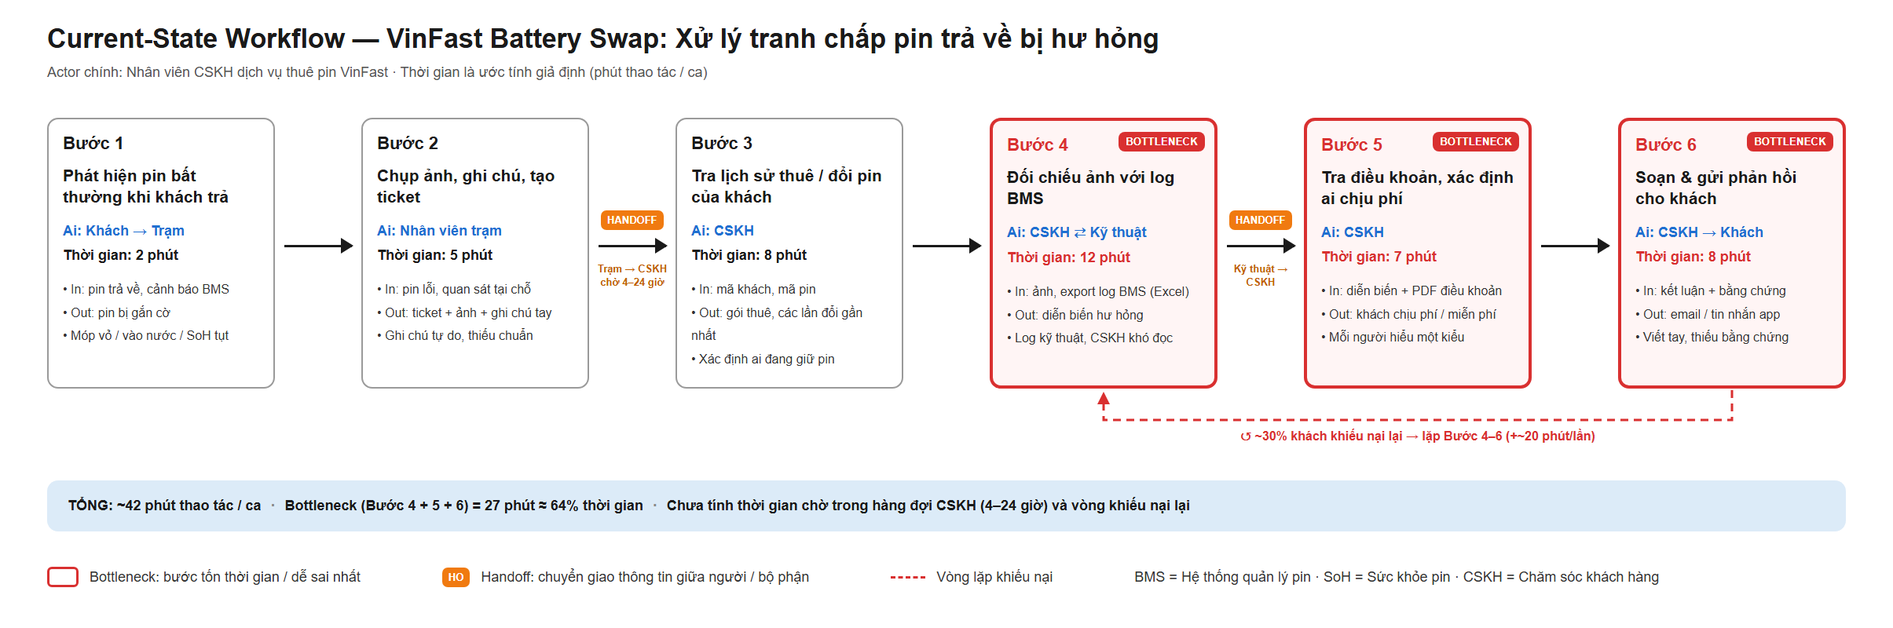
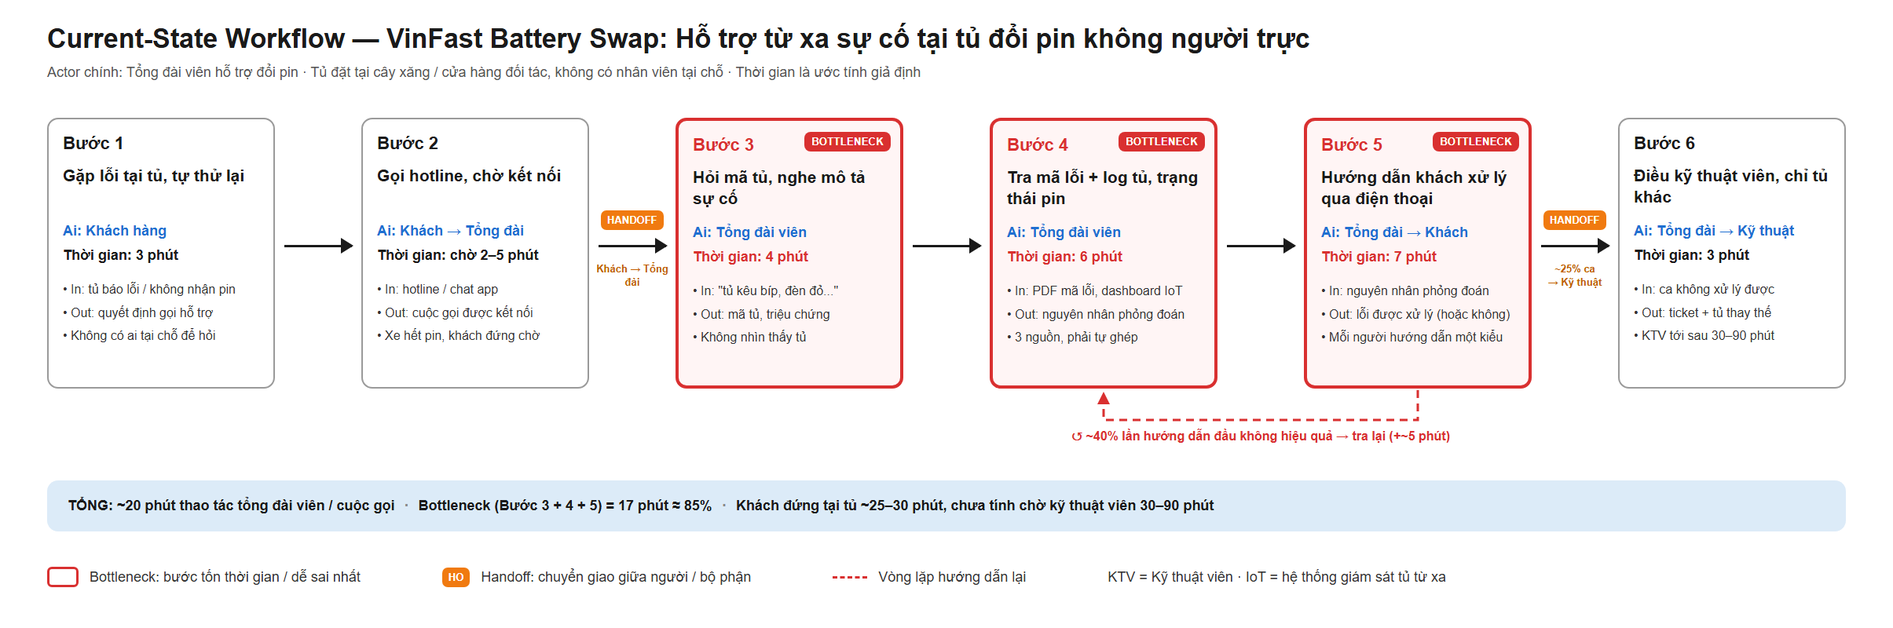
Feat: Complete individual assignment by ngogiabao

diff --git a/02-deep-dive-report.md b/02-deep-dive-report.md
@@ -1,10 +1,10 @@
-# 02 — Deep-Dive Report: VinFast Battery Swap — Xử lý tranh chấp pin trả về bị hư hỏng
+# 02 — Deep-Dive Report: VinFast Battery Swap — Hỗ trợ từ xa sự cố tại tủ đổi pin không người trực
 
 > **Học viên:** Ngô Gia Bảo — Branch: `ngogiabao`
 > **Bài toán chọn từ:** Quick Card #2 trong [01-problem-scan.md](01-problem-scan.md)
-> **Mảng kinh doanh:** 🚗 **VinFast — Dịch vụ thuê & đổi pin xe máy điện (Battery Swap)**
+> **Mảng kinh doanh:** 🚗 **VinFast / V-Green — Dịch vụ thuê & đổi pin xe máy điện (Battery Swap)**
 >
-> ⚠ *Mọi con số (thời gian, số ca, tỷ lệ) là **ước tính giả định** để scoping, chưa có dữ liệu vận hành thật. Phase 5 giải thích vì sao điều này ảnh hưởng tới quyết định.*
+> ⚠ *Mọi con số (thời gian, số cuộc gọi, tỷ lệ) là **ước tính giả định** để scoping, chưa có dữ liệu vận hành thật. Phase 5 giải thích vì sao điều này ảnh hưởng tới quyết định.*
 
 ---
 
@@ -12,25 +12,24 @@
 
 ## 3.1. Current-State Workflow Mapping
 
-**Bối cảnh:** Khi khách trả pin tại trạm, nếu pin có dấu hiệu bất thường (vỏ móp/nứt, dấu hiệu vào nước, SoH tụt mạnh so với lần nhận, mã lỗi BMS), trạm phải mở ticket. CSKH xử lý ticket để xác định **ai chịu chi phí** (khách hàng gây hư hỏng / hao mòn tự nhiên / lỗi nhà sản xuất) và phản hồi khách.
+**Bối cảnh:** Tủ đổi pin được đặt tại cây xăng, cửa hàng đối tác, trạm điện lực... và **không có nhân viên của dịch vụ đổi pin trực tại chỗ**. Khi khách gặp sự cố — tủ không nhận pin trả về, báo mã lỗi, kẹt khay, không còn pin đầy — kênh hỗ trợ duy nhất là **gọi tổng đài / chat trong app**. Tổng đài viên phải xử lý từ xa mà không nhìn thấy tủ.
 
-| Bước | Ai thực hiện | Mô tả | Công cụ | ⏱ Thời gian xử lý | Ký hiệu |
+| Bước | Ai thực hiện | Mô tả | Công cụ | ⏱ Thời gian | Ký hiệu |
 |---|---|---|---|---:|---|
-| 1 | Hệ thống trạm / Nhân viên trạm | Phát hiện pin bất thường khi khách trả (BMS báo lỗi hoặc nhân viên thấy hư hỏng ngoại quan) | Tủ đổi pin, BMS | 2 phút | |
-| 2 | Nhân viên trạm | Chụp ảnh pin, ghi chú tình trạng, tạo ticket | App nội bộ trạm | 5 phút | 🔄 **Handoff:** Trạm ──> CSKH |
-| — | *(Hàng đợi)* | Ticket nằm chờ trong queue CSKH | Hệ thống ticket | *Chờ 4–24 giờ* | 🔴 *(thời gian chờ)* |
-| 3 | CSKH | Tra lịch sử thuê/đổi pin của khách (gói thuê, các lần đổi gần nhất, ai giữ pin) | Hệ thống quản lý thuê pin | 8 phút | |
-| 4 | CSKH (+ Kỹ thuật nếu cần) | Đối chiếu ảnh tại trạm với log BMS (va đập, nhiệt độ, độ ẩm, dòng sạc bất thường) để dựng lại diễn biến | Ảnh + export log BMS (Excel) | 12 phút | 🔴 **Bottleneck** · 🔄 **Handoff:** CSKH ──> Kỹ thuật (khi log khó đọc) |
-| 5 | CSKH | Tra điều khoản gói thuê, xác định trường hợp: khách chịu phí / miễn phí / cần kỹ thuật kết luận | Tài liệu điều khoản (PDF) | 7 phút | 🔴 **Bottleneck** |
-| 6 | CSKH | Soạn phản hồi giải thích cho khách (bằng chứng + điều khoản + mức phí nếu có) và gửi | Email / App / Zalo | 8 phút | 🔴 **Bottleneck** · 🔄 **Handoff:** CSKH ──> Khách |
-| 7 | Khách hàng ──> CSKH | ~30% khách không đồng ý, khiếu nại lại ──> lặp lại bước 4–6 | — | (+~20 phút/lần lặp) | 🔄 Vòng lặp |
+| 1 | Khách hàng | Gặp lỗi tại tủ, tự thử lại vài lần (rút pin, cắm lại, quét lại QR) | Tủ đổi pin, app | 3 phút | |
+| 2 | Khách ──> Tổng đài | Gọi hotline / chat app, chờ kết nối | Tổng đài | *Chờ 2–5 phút* | 🔄 **Handoff:** Khách ──> Tổng đài |
+| 3 | Tổng đài viên | Hỏi mã tủ, tài khoản, nghe khách mô tả sự cố (thường mơ hồ: *"tủ kêu bíp, đèn đỏ, không mở"*) | Điện thoại, CRM | 4 phút | 🔴 **Bottleneck** |
+| 4 | Tổng đài viên | Tra mã lỗi trong tài liệu (PDF), xem log tủ và trạng thái pin trên hệ thống giám sát, đoán nguyên nhân | Tài liệu mã lỗi, dashboard IoT | 6 phút | 🔴 **Bottleneck** |
+| 5 | Tổng đài viên ──> Khách | Hướng dẫn khách xử lý từng bước qua điện thoại; nếu không được thì thử cách khác (~40% lần hướng dẫn đầu không hiệu quả) | Điện thoại | 7 phút | 🔴 **Bottleneck** · 🔄 vòng lặp về bước 4 |
+| 6 | Tổng đài viên ──> Kỹ thuật | ~25% ca không xử lý được từ xa: tạo ticket điều kỹ thuật viên, chỉ khách sang tủ khác gần nhất | Hệ thống ticket, bản đồ tủ | 3 phút | 🔄 **Handoff:** Tổng đài ──> Kỹ thuật viên *(chờ 30–90 phút)* |
 
-**Tổng cộng thời gian xử lý (bước 1–6) = 2 + 5 + 8 + 12 + 7 + 8 = ~42 phút/lượt**, chưa tính thời gian chờ trong hàng đợi (4–24 giờ) và vòng khiếu nại lại.
+**Tổng thời gian thao tác của tổng đài viên (bước 3–6) = 4 + 6 + 7 + 3 = ~20 phút/cuộc gọi.**
+Phía khách: ~25–30 phút đứng tại tủ (gồm tự thử + chờ kết nối + được hướng dẫn), chưa tính 30–90 phút chờ kỹ thuật viên nếu bị chuyển tiếp.
 
-**Vì sao bước 4–6 là bottleneck:**
-* Thông tin nằm rải rác ở **4 nguồn khác nhau** (lịch sử thuê, ảnh, log BMS, điều khoản) — CSKH phải tự ghép lại.
-* Log BMS là dữ liệu kỹ thuật, CSKH không chuyên đọc chậm và dễ hiểu sai ──> phải chuyển kỹ thuật.
-* Văn bản phản hồi mỗi người viết một kiểu, thiếu bằng chứng cụ thể ──> khách không thuyết phục ──> khiếu nại lại.
+**Vì sao bước 3–5 là bottleneck (~17/20 phút ≈ 85%):**
+* Tổng đài viên **không nhìn thấy tủ**: phải dựa vào lời mô tả không chuẩn của khách, rồi tự "dịch" sang mã lỗi kỹ thuật.
+* Thông tin nằm ở **3 nơi khác nhau** (lời khách, tài liệu mã lỗi PDF, log trên dashboard IoT), phải tự ghép lại khi khách đang chờ trên điện thoại.
+* Kịch bản hướng dẫn mỗi người nói một kiểu ──> khách thao tác sai ──> lặp lại bước 4–5.
 
 > 🖼 Sơ đồ trực quan của workflow này: [04-workflow-diagram.png](04-workflow-diagram.png)
 
@@ -40,12 +39,12 @@
 
 | Field | Nội dung chi tiết |
 |---|---|
-| **1. Actor / Operator** | **Nhân viên CSKH dịch vụ thuê pin VinFast** (người xử lý ticket hằng ngày). Liên quan: nhân viên trạm đổi pin (tạo ticket), kỹ thuật viên pin (hỗ trợ đọc log), khách hàng thuê pin (người nhận kết quả). |
-| **2. Current Workflow** | Trạm phát hiện pin bất thường ──> chụp ảnh, tạo ticket ──> CSKH tra lịch sử thuê ──> đối chiếu ảnh + log BMS (đôi khi nhờ kỹ thuật) ──> tra điều khoản gói thuê ──> soạn và gửi phản hồi thủ công. Công cụ: app trạm, hệ thống ticket, hệ thống quản lý thuê pin, file export log BMS, PDF điều khoản, email/app. |
-| **3. Bottleneck** | Bước **tổng hợp bằng chứng từ 4 nguồn + đọc log BMS + soạn văn bản phản hồi** (bước 4–6), chiếm ~27/42 phút mỗi ca. Đây là phần **xử lý ngôn ngữ và tổng hợp thông tin phi cấu trúc**, không phải tính toán. |
-| **4. Business Impact** | *Giả định* ~60 ca tranh chấp/ngày toàn hệ thống × 42 phút = **~42 giờ công/ngày (~5 nhân sự toàn thời gian)**. Thời gian chờ 4–24 giờ khiến khách bức xúc; ~30% ca bị khiếu nại lại; mỗi tranh chấp xử lý kém là nguy cơ **mất khách thuê pin dài hạn** và review xấu cho dịch vụ đổi pin. |
-| **5. Success Metric** | (a) Thời gian xử lý trung bình **42 phút ──> dưới 10 phút/ca**. (b) **≥ 85%** bản nháp AI được CSKH duyệt chỉ với chỉnh sửa nhỏ. (c) Tỷ lệ khiếu nại lại **~30% ──> dưới 15%**. (d) **0 ca** AI tự gửi cho khách hoặc tự áp phí mà không qua người duyệt. |
-| **6. Operational Boundary** | ✅ **AI được phép:** tóm tắt lịch sử thuê và log BMS thành timeline; trích dẫn điều khoản liên quan; **đề xuất** phân loại trường hợp kèm độ tự tin; soạn **nháp** phản hồi gắn thẻ `[DRAFT_ONLY]`. ❌ **AI tuyệt đối KHÔNG được:** tự gửi tin cho khách; tự kết luận/áp phí; đưa ra số tiền không có trong bảng giá chính thức; hứa bồi thường/miễn phí; suy đoán khi thiếu bằng chứng; tiết lộ dữ liệu của khách khác. 🟢 **Điểm bắt buộc người duyệt:** mọi phản hồi trước khi gửi; mọi quyết định thu phí; ca phí vượt ngưỡng (ví dụ > 2 triệu VNĐ) hoặc nghi gian lận ──> trưởng nhóm CSKH duyệt; ca có dấu hiệu an toàn (phồng pin, cháy nổ) ──> kỹ thuật xử lý, không qua AI. |
+| **1. Actor / Operator** | **Tổng đài viên hỗ trợ dịch vụ đổi pin** (người xử lý cuộc gọi sự cố hằng ngày). Liên quan: khách hàng thuê pin (đang đứng tại tủ), kỹ thuật viên vận hành (nhận ca chuyển tiếp), đối tác đặt tủ (cây xăng, cửa hàng — không chịu trách nhiệm hỗ trợ). |
+| **2. Current Workflow** | Khách gặp lỗi tại tủ ──> gọi hotline/chat ──> tổng đài viên hỏi mã tủ + mô tả ──> tra mã lỗi trong PDF + xem log tủ trên dashboard IoT ──> hướng dẫn khách qua điện thoại ──> không được thì tạo ticket điều kỹ thuật viên và chỉ khách sang tủ khác. Công cụ: tổng đài, CRM, tài liệu mã lỗi, dashboard giám sát tủ, hệ thống ticket. |
+| **3. Bottleneck** | Bước **hiểu mô tả mơ hồ của khách + tra mã lỗi/log + soạn hướng dẫn từng bước** (bước 3–5), chiếm ~17/20 phút mỗi cuộc gọi. Đây là phần **xử lý ngôn ngữ và tổng hợp thông tin**, cộng với áp lực khách đang đứng chờ. |
+| **4. Business Impact** | *Giả định* khi mạng lưới mở rộng: ~300 cuộc gọi sự cố/ngày × 20 phút = **~100 giờ công/ngày (~12 tổng đài viên toàn thời gian)**. Khách đứng tại tủ 25–30 phút với xe hết pin — trải nghiệm tệ nhất của dịch vụ, dễ dẫn tới **bỏ gói thuê pin** và review xấu, đi ngược mục tiêu phổ cập đổi pin. ~25% ca phải điều kỹ thuật viên, tốn chi phí di chuyển cho những lỗi lẽ ra xử lý được từ xa. |
+| **5. Success Metric** | (a) Thời gian tổng đài viên xử lý **~20 phút ──> dưới 8 phút/cuộc gọi**. (b) Tỷ lệ xử lý xong ngay cuộc gọi đầu **~45% ──> ≥ 65%**. (c) Tỷ lệ phải điều kỹ thuật viên **~25% ──> dưới 15%**. (d) **100%** ca có dấu hiệu nguy hiểm được chuyển kỹ thuật/cứu hộ; **0** hướng dẫn nằm ngoài danh mục thao tác đã duyệt. |
+| **6. Operational Boundary** | ✅ **AI được phép:** đọc mô tả của khách + mã lỗi + log tủ + trạng thái pin; **đề xuất** nguyên nhân khả dĩ kèm độ tự tin; soạn kịch bản hướng dẫn **chỉ gồm các bước trong danh mục thao tác đã được kỹ thuật duyệt**; gợi ý tủ thay thế **lấy từ hệ thống** (không tự bịa); soạn nháp ticket cho kỹ thuật viên. Mọi đầu ra gắn thẻ `[DRAFT_ONLY]`. ❌ **AI tuyệt đối KHÔNG được:** hướng dẫn khách tháo vỏ, mở khoang hay can thiệp vào pin/tủ; tự gửi lệnh điều khiển tủ (mở khay, reset); hứa hoàn tiền/miễn phí; bịa vị trí tủ hoặc tình trạng pin; xử lý bất kỳ ca nào có dấu hiệu nguy hiểm. 🟢 **Điểm bắt buộc người duyệt:** tổng đài viên duyệt kịch bản trước khi đọc/gửi cho khách; mọi lệnh điều khiển tủ từ xa do tổng đài viên bấm; ca có **pin phồng, nóng, bốc khói, mùi khét, ngấm nước** ──> bỏ qua AI, dùng kịch bản an toàn cố định và điều kỹ thuật/cứu hộ ngay. |
 
 ---
 
@@ -55,34 +54,36 @@
 
 | Tiêu chí | Rule / State-Machine | LLM Feature | Agentic Loop |
 |---|---|---|---|
-| **Gom dữ liệu từ 4 nguồn** | ✅ Tốt — gọi API cố định, xác định | — | Không cần, nguồn dữ liệu đã biết trước |
-| **Phân loại theo ngưỡng số (SoH, mã lỗi, nhiệt độ)** | ✅ Tốt — rẻ, giải thích được | Không cần | Không cần |
-| **Đọc ghi chú tự do của trạm, ghép timeline, viết phản hồi dễ hiểu** | ❌ Không làm được — template cứng bị khách chê rập khuôn | ✅ Thế mạnh của LLM | Có thể, nhưng thừa |
-| **Rủi ro / chi phí** | Thấp nhất | Trung bình — kiểm soát được bằng HITL + `[DRAFT_ONLY]` | Cao — tự gọi tool, khó kiểm soát, dễ vượt ranh giới tài chính |
-| **Kết luận** | Dùng cho **phần dữ liệu có cấu trúc** | ✅ **Chọn cho phần tổng hợp & soạn thảo** | ❌ Không chọn |
+| **Lấy log tủ, mã lỗi, trạng thái pin theo mã tủ** | ✅ Tốt — gọi API cố định | — | Không cần |
+| **Mã lỗi chuẩn ──> thao tác xử lý chuẩn** | ✅ Tốt — bảng tra, rẻ, giải thích được | Không cần | Không cần |
+| **Phát hiện ca nguy hiểm (từ khóa + cảm biến nhiệt)** | ✅ Bắt buộc dùng rule — phải chắc chắn, không xác suất | Hỗ trợ bắt cách nói lạ | — |
+| **Hiểu mô tả tự do ("kêu bíp", "đèn nháy đỏ") khi không có / không khớp mã lỗi; soạn hướng dẫn dễ hiểu theo tình huống** | ❌ Không làm được — kịch bản cứng không bao hết cách khách mô tả | ✅ Thế mạnh của LLM | Có thể, nhưng thừa |
+| **Tự gửi lệnh mở khay / reset tủ** | — | — | ⚠ Làm được nhưng **rủi ro cao**: tác động vật lý lên thiết bị ngoài hiện trường |
+| **Kết luận** | Dùng cho **dữ liệu có cấu trúc + cổng an toàn** | ✅ **Chọn cho phần hiểu ngôn ngữ & soạn hướng dẫn** | ❌ Không chọn |
 
 **Quyết định kiến trúc:** [x] **Rule + LLM Feature (hybrid)** · [ ] Agentic Loop.
-Rule-based lo phần lấy dữ liệu và kiểm tra ngưỡng; LLM chỉ lo phần ngôn ngữ (tóm tắt, trích điều khoản, soạn nháp). Không dùng Agent vì luồng xử lý cố định, không cần AI tự lập kế hoạch, và việc để AI tự hành động trong một quy trình liên quan tới tiền là rủi ro không cần thiết.
+Rule-based lo phần dữ liệu có cấu trúc và cổng an toàn; LLM chỉ lo phần ngôn ngữ. Không dùng Agent vì không có lý do để AI tự điều khiển thiết bị vật lý không người trực — một lệnh sai có thể làm kẹt pin của khách hoặc gây mất an toàn.
 
 ### Future-State Flow
 
 | Bước | Loại | Mô tả | ⏱ Ước tính |
 |---|---|---|---:|
-| 1 | ⚙ Rule | Trạm phát hiện pin bất thường, chụp ảnh, tạo ticket (giữ nguyên) | 5 phút |
-| 2 | ⚙ Rule | Hệ thống tự gom: lịch sử thuê/đổi pin, log BMS, ảnh, điều khoản gói thuê của khách ──> 1 hồ sơ | tự động |
-| 3 | ⚙ Rule | **Cổng an toàn:** nếu log có dấu hiệu phồng/quá nhiệt nghiêm trọng ──> chuyển thẳng Kỹ thuật, dừng luồng AI | tự động |
-| 4 | 🔵 **AI Step** | LLM tóm tắt timeline bằng chứng, trích điều khoản liên quan, đề xuất loại trường hợp (`khach_gay_hu_hong` / `hao_mon_tu_nhien` / `loi_san_xuat` / `thieu_bang_chung`) kèm độ tự tin, và soạn nháp phản hồi bắt đầu bằng `[DRAFT_ONLY]` — trả về JSON có cấu trúc | ~10 giây |
-| 5 | ⚙ Rule | Kiểm tra output: JSON hợp lệ, có `[DRAFT_ONLY]`, mức phí (nếu có) khớp bảng giá chính thức | tự động |
-| 6 | 🟢 **Human Step (HITL)** | CSKH đọc tóm tắt + nháp, chỉnh sửa, **quyết định phí**, bấm gửi. Phí > 2 triệu VNĐ hoặc nghi gian lận ──> trưởng nhóm duyệt | 5–8 phút |
-| 7 | — | Khách nhận phản hồi có bằng chứng rõ ràng | — |
+| 1 | — | Khách gặp lỗi, bấm "Báo sự cố" trong app tại tủ (app tự gửi mã tủ qua QR/GPS) hoặc gọi hotline | 1–2 phút |
+| 2 | ⚙ Rule | Hệ thống tự lấy: log tủ 30 phút gần nhất, mã lỗi, trạng thái khay và pin, lịch sử đổi pin của khách, danh sách tủ gần nhất còn pin đầy | tự động |
+| 3 | ⚙ Rule | **Cổng an toàn:** mô tả có từ khóa nguy hiểm (phồng, nóng, khói, khét, nước) hoặc cảm biến nhiệt tủ bất thường ──> kịch bản an toàn cố định + điều kỹ thuật/cứu hộ, **dừng luồng AI** | tự động |
+| 4 | 🔵 **AI Step** | LLM đọc mô tả + dữ liệu bước 2, trả về JSON: nguyên nhân khả dĩ, độ tự tin, các bước hướng dẫn (chỉ chọn mã thao tác từ danh mục đã duyệt), có cần kỹ thuật viên không, tin nháp cho khách bắt đầu bằng `[DRAFT_ONLY]` | ~5 giây |
+| 5 | ⚙ Rule | Kiểm tra output: JSON hợp lệ, có `[DRAFT_ONLY]`, mọi bước hướng dẫn nằm trong danh mục, tủ thay thế khớp dữ liệu hệ thống | tự động |
+| 6 | 🟢 **Human Step (HITL)** | Tổng đài viên xem tóm tắt + kịch bản đề xuất, chỉnh nếu cần, đọc/gửi cho khách; tự bấm lệnh điều khiển tủ nếu kịch bản yêu cầu; quyết định điều kỹ thuật viên | 4–6 phút |
 
 **↩ Fallback (khi AI lỗi hoặc không chắc chắn):**
-* LLM trả về JSON lỗi, thiếu `[DRAFT_ONLY]`, hoặc mức phí không khớp bảng giá ──> loại bỏ bản nháp, ticket quay về **quy trình thủ công** hiện tại, kèm hồ sơ dữ liệu đã gom ở bước 2 (vẫn tiết kiệm thời gian tra cứu).
-* Độ tự tin thấp (< 0.7) hoặc loại `thieu_bang_chung` ──> không soạn kết luận, chỉ soạn **tin nhắn xin thêm thông tin** từ khách/trạm.
-* API LLM ngừng hoạt động ──> CSKH dùng **mẫu phản hồi chuẩn** theo từng loại trường hợp.
-* Trong mọi trường hợp: **không có đường nào để hệ thống tự gửi tin hoặc tự trừ tiền khách.**
+* LLM trả về JSON lỗi, thiếu `[DRAFT_ONLY]`, hoặc có bước hướng dẫn **ngoài danh mục** ──> loại bỏ đề xuất, tổng đài viên dùng **bảng tra mã lỗi rule-based** như hiện tại (vẫn tiết kiệm thời gian nhờ dữ liệu đã được gom sẵn ở bước 2).
+* Độ tự tin thấp (< 0.7) hoặc mô tả không khớp log ──> AI chỉ đề xuất **câu hỏi làm rõ** cho tổng đài viên hỏi khách, không đề xuất cách xử lý.
+* API LLM ngừng hoạt động hoặc quá chậm ──> hiển thị ngay kịch bản chuẩn theo mã lỗi; khách được chỉ sang tủ gần nhất còn pin đầy.
+* Trong mọi trường hợp: **AI không có đường nào để tự gửi lệnh cho tủ hay tự gửi tin cho khách.**
 
-**Thời gian xử lý tương lai ước tính:** ~5 phút (trạm) + ~5–8 phút (CSKH duyệt) ≈ **10–13 phút/ca** phía con người, giảm ~70% so với 42 phút hiện tại.
+**Thời gian xử lý tương lai ước tính:** ~4–6 phút/cuộc gọi phía tổng đài viên (giảm ~70% so với 20 phút); khách được hướng dẫn trong vài phút thay vì 25–30 phút.
+
+**Hướng phát triển sau này (ngoài phạm vi hiện tại):** khi đã đo được độ chính xác đủ cao, cho phép trợ lý trả lời **trực tiếp cho khách trong app** với các lỗi đơn giản, an toàn — vẫn giữ cổng an toàn và chuyển người khi cần.
 
 ---
 
@@ -92,9 +93,9 @@ Rule-based lo phần lấy dữ liệu và kiểm tra ngưỡng; LLM chỉ lo ph
 
 | # | Câu hỏi | Trạng thái | Bằng chứng / Ghi chú |
 |---|---|---|---|
-| 1 | Có sẵn dữ liệu mẫu/logs sạch để test? | [ ] **Chưa đủ** | Log BMS và lịch sử thuê có sẵn trong hệ thống, nhưng **ticket tranh chấp cũ chưa được chuẩn hóa** (kết luận cuối cùng, mức phí, khách có khiếu nại lại không) ──> chưa có bộ dữ liệu đối chiếu để đo độ chính xác, và chưa có baseline thật cho metric "42 phút" và "30% khiếu nại lại". |
-| 2 | Rủi ro khi AI sai có nằm trong tầm kiểm soát (HITL / Fallback)? | [x] **Có** | AI chỉ soạn nháp `[DRAFT_ONLY]`, người duyệt mọi quyết định phí, có kiểm tra rule-based sau LLM và fallback về quy trình thủ công. Ca an toàn pin bị tách khỏi luồng AI. |
-| 3 | Stakeholders sẵn sàng thay đổi quy trình? | [ ] **Một phần** | CSKH có động lực (giảm tải), nhưng cần **bộ phận Pháp chế** duyệt việc dùng AI trích dẫn điều khoản và **Kỹ thuật pin** xác nhận cách diễn giải log BMS trước khi đưa vào prompt. |
+| 1 | Có sẵn dữ liệu mẫu/logs sạch để test? | [ ] **Một phần** | Tủ là thiết bị IoT nên **log, mã lỗi, trạng thái khay/pin đã có sẵn**. Nhưng **lịch sử cuộc gọi chưa được ghi lại có cấu trúc** (khách mô tả gì, nguyên nhân thật, cách xử lý nào hiệu quả), và tài liệu mã lỗi chưa được chuẩn hóa thành **danh mục thao tác an toàn** ──> chưa có bộ dữ liệu để đo độ chính xác. |
+| 2 | Rủi ro khi AI sai có nằm trong tầm kiểm soát (HITL / Fallback)? | [x] **Có** | Cổng an toàn rule-based chặn ca nguy hiểm trước khi tới AI; AI chỉ chọn bước từ danh mục đã duyệt; tổng đài viên duyệt mọi kịch bản và tự bấm mọi lệnh điều khiển tủ; fallback về bảng tra mã lỗi. |
+| 3 | Stakeholders sẵn sàng thay đổi quy trình? | [ ] **Một phần** | Tổng đài có động lực (giảm tải). Cần **đội kỹ thuật** duyệt danh mục thao tác an toàn, và cần làm rõ phân chia trách nhiệm giữa VinFast, V-Green và các đối tác đặt tủ khi có sự cố. |
 
 ### Quyết định cuối cùng của Ban Giám Đốc Vin Smart Future
 
@@ -102,14 +103,22 @@ Rule-based lo phần lấy dữ liệu và kiểm tra ngưỡng; LLM chỉ lo ph
 
 ### Justification
 
-> **Bài toán đúng, kiến trúc đúng, nhưng chưa đủ bằng chứng để build.**
+> **Bài toán có thật và gắn với chính mô hình tủ không người trực, nhưng chưa đủ bằng chứng để build phần LLM.**
 >
-> 1. **Phù hợp AI là có thật:** bottleneck nằm ở việc tổng hợp thông tin phi cấu trúc và soạn văn bản — việc rule-based không làm được và LLM làm tốt. Ranh giới vận hành rõ ràng (AI chỉ soạn nháp, con người quyết định tiền), nên rủi ro kiểm soát được. Vì vậy đây **không phải NO-GO**.
-> 2. **Nhưng chưa thể GO** vì mọi con số trong báo cáo (42 phút/ca, 60 ca/ngày, 30% khiếu nại lại) đều là **giả định**. Không có baseline thì không chứng minh được ROI, và không có bộ ticket cũ đã gán kết luận thì **không đo được độ chính xác** của AI trước khi đưa cho CSKH dùng. Ngoài ra, Pháp chế chưa duyệt việc AI trích dẫn điều khoản trong văn bản gửi khách.
-> 3. **Chi phí chờ thấp:** quy trình hiện tại vẫn chạy được, chỉ chậm. Trì hoãn 1–2 tháng để chuẩn bị không gây thiệt hại lớn, trong khi build sớm trên dữ liệu giả định có thể dẫn tới một sản phẩm không ai tin dùng.
+> 1. **Phù hợp AI là có thật:** tổng đài viên phải "dịch" lời mô tả không chuẩn của khách sang mã lỗi và soạn hướng dẫn ngay khi khách đang chờ — rule-based không bao hết được, LLM làm tốt. Rủi ro kiểm soát được nhờ cổng an toàn, danh mục thao tác và người duyệt. Vì vậy đây **không phải NO-GO**.
+> 2. **Nhưng chưa thể GO** vì **khối lượng thật chưa rõ**. Một thống kê cũ của VinFast cho thấy giai đoạn đầu cả nước chỉ có vài chục lượt đổi pin mỗi tháng; mạng lưới đang tăng nhanh, nhưng con số "300 cuộc gọi sự cố/ngày" trong báo cáo hoàn toàn là giả định. Nếu số cuộc gọi thật thấp, **một bảng tra mã lỗi rule-based là đủ** và LLM không đáng chi phí. Ngoài ra chưa có lịch sử cuộc gọi để đo độ chính xác, và chưa có danh mục thao tác an toàn do kỹ thuật duyệt — thứ bắt buộc phải có trước khi cho AI đề xuất hướng dẫn.
+> 3. **Chi phí chờ thấp và việc chuẩn bị có giá trị ngay:** chuẩn hóa mã lỗi và danh mục thao tác giúp tổng đài viên ngay cả khi không có AI.
 >
 > **Điều kiện để chuyển sang GO (dự kiến sau 6–8 tuần):**
-> * Đo baseline thật: thời gian xử lý, số ca/ngày, tỷ lệ khiếu nại lại trong 4 tuần.
-> * Chuẩn hóa ≥ 200 ticket cũ có kết luận cuối cùng làm bộ test.
-> * Pháp chế duyệt danh sách điều khoản AI được phép trích dẫn; Kỹ thuật pin duyệt bảng diễn giải mã lỗi BMS.
-> * Pilot đầu tiên chạy ở **chế độ shadow** (AI soạn nháp song song, CSKH vẫn làm thủ công, chỉ so sánh) tại 1 khu vực trước khi dùng thật.
+> * Đo baseline 4 tuần: số cuộc gọi sự cố/ngày, thời gian xử lý, tỷ lệ xử lý xong ngay cuộc gọi đầu, tỷ lệ phải điều kỹ thuật viên.
+> * **Ngưỡng quyết định:** nếu < ~50 cuộc gọi sự cố/ngày ──> chỉ làm bảng tra mã lỗi rule-based (**NO-GO cho LLM**); nếu cao hơn ──> **GO** cho LLM.
+> * Ghi lại có cấu trúc ≥ 300 cuộc gọi (mô tả, mã lỗi, nguyên nhân thật, cách xử lý) làm bộ test.
+> * Đội kỹ thuật ban hành **danh mục thao tác an toàn** cho khách và danh sách dấu hiệu nguy hiểm.
+> * Pilot đầu tiên chạy **chế độ shadow** (AI đề xuất song song, tổng đài viên vẫn xử lý như cũ, chỉ so sánh) tại 1 thành phố.
+
+---
+
+**Nguồn tham khảo về mô hình đổi pin:**
+[VnEconomy — Mô hình đổi pin xe máy điện](https://vneconomy.vn/vinfast-trien-khai-toan-quoc-chinh-sach-uu-dai-chuyen-doi-xanh-va-mo-hinh-doi-pin-xe-may-dien.htm) ·
+[VnReview — 4 mẫu xe máy điện đổi pin, 4.500 trạm](https://vnreview.vn/threads/vinfast-ra-mat-cung-luc-4-mau-xe-may-dien-moi-ho-tro-doi-pin-gia-doi-pin-khoang-gan-2-coc-tra-da-da-hoan-tat-4-500-tram-doi-pin.77440/latest) ·
+[Mekong ASEAN — Tủ đổi pin tại cây xăng PVOIL](https://mekongasean.vn/v-green-trien-khai-hon-3000-tu-doi-pin-xe-may-dien-tai-cay-xang-pvoil-54965.html)

diff --git a/03-ai-log.md b/03-ai-log.md
@@ -2,7 +2,8 @@
 
 > **Học viên:** Ngô Gia Bảo — Branch: `ngogiabao`
 > **Công cụ AI sử dụng:** Claude (Claude Code trong VS Code)
-> **Bài toán thực hiện:** VinFast Battery Swap — Xử lý tranh chấp pin trả về bị hư hỏng
+> **Bài toán thực hiện:** VinFast Battery Swap — Hỗ trợ từ xa sự cố tại tủ đổi pin không người trực
+> *(bài toán ban đầu là "Xử lý tranh chấp pin trả về bị hư hỏng" — đã đổi, lý do ở mục 2)*
 
 ---
 
@@ -16,9 +17,9 @@ Trong Lab 02, tôi dùng Claude như một trợ lý đồng hành (thought-part
 
 **Hiểu đúng yêu cầu ngay từ đầu.** Khi tôi yêu cầu "đọc repo và phân tích yêu cầu", AI không chỉ tóm tắt README mà còn đọc mã nguồn `autograder.py` để chỉ ra cách chấm điểm thực tế. Nhờ vậy tôi biết những chi tiết mà nếu chỉ đọc hướng dẫn tôi sẽ bỏ qua: script phải chạy xong trong 30 giây, chỉ cần chữ "Failed" xuất hiện ở bất kỳ đâu trong output là mất điểm phần kiểm thử ranh giới, và file `.py` không được merge vào `main`.
 
-**Mở rộng ý tưởng bài toán.** Từ một chủ đề tôi quan tâm là "đổi pin VinFast", AI tách ra thành bốn bài toán khác nhau: điều phối pin giữa các trạm, đánh giá tình trạng pin khi khách trả, xử lý tranh chấp pin hư hỏng và chatbot giải đáp gói thuê pin. Kết hợp với ba bài toán của Vinpearl/VinWonders, tôi có đủ 7 bài toán phủ cả 4 lenses.
+**Mở rộng ý tưởng bài toán.** Từ một chủ đề tôi quan tâm là "đổi pin VinFast", AI tách ra thành bốn bài toán khác nhau (bản cuối): điều phối pin giữa các tủ, phân loại pin lỗi bị tủ gắn cờ, hỗ trợ từ xa sự cố tại tủ và chatbot giải đáp gói thuê pin. Kết hợp với ba bài toán của Vinpearl/VinWonders, tôi có đủ 7 bài toán phủ cả 4 lenses.
 
-**Phản biện việc dùng AI.** Điều tôi đánh giá cao nhất là AI không cố gắn AI vào mọi bài toán. Với bài đánh giá pin khi trả về, AI chỉ ra rằng các chỉ số SoH, số chu kỳ sạc, mã lỗi đều là số liệu có cấu trúc nên một bảng ngưỡng rule-based sẽ nhanh, rẻ và dễ giải thích hơn LLM. Với bài cân bằng pin giữa các trạm, AI xác định đây là bài toán dự báo và tối ưu, không phải bài toán ngôn ngữ. Điều này giúp tôi hiểu rõ hơn tinh thần *"Problem First, AI Second"* và chọn đúng bài toán tranh chấp pin, nơi LLM thực sự có giá trị.
+**Phản biện việc dùng AI.** Điều tôi đánh giá cao nhất là AI không cố gắn AI vào mọi bài toán. Với bài phân loại pin lỗi, AI chỉ ra rằng các chỉ số SoH, số chu kỳ sạc, mã lỗi đều là số liệu có cấu trúc nên một bảng ngưỡng rule-based sẽ nhanh, rẻ và dễ giải thích hơn LLM. Với bài cân bằng pin giữa các trạm, AI xác định đây là bài toán dự báo và tối ưu, không phải bài toán ngôn ngữ. Điều này giúp tôi hiểu rõ hơn tinh thần *"Problem First, AI Second"* và tập trung vào bài toán mà phần ngôn ngữ mới là nút thắt — nơi LLM thực sự có giá trị.
 
 **Tăng tốc phần trình bày.** AI giúp dựng bảng Problem Statement 6 trường, ma trận so sánh Rule / LLM / Agent, luồng tương lai có bước AI, bước người duyệt và phương án dự phòng, cũng như vẽ sơ đồ quy trình hiện tại theo đúng ảnh mẫu. Tôi có thêm thời gian để suy nghĩ về nội dung thay vì định dạng.
 
@@ -26,27 +27,34 @@ Trong Lab 02, tôi dùng Claude như một trợ lý đồng hành (thought-part
 
 ## 2. AI đã sai hoặc "bịa" ở đâu
 
-**Số liệu không có nguồn (hallucination nguy hiểm nhất).** Tất cả các con số trong bài — 42 phút mỗi ca, 60 ca mỗi ngày, 30% khách khiếu nại lại, 40% câu hỏi lặp lại — đều do AI ước tính. Chúng nghe rất hợp lý và được trình bày tự tin, nhưng không có bất kỳ nguồn dữ liệu nào. Nếu tôi không để ý, người đọc báo cáo sẽ tưởng đó là số liệu vận hành thật của VinFast.
+**Số liệu không có nguồn (hallucination nguy hiểm nhất).** Tất cả các con số trong bài — 20 phút mỗi cuộc gọi, 300 cuộc gọi sự cố mỗi ngày, 45% xử lý xong ngay cuộc gọi đầu, 40% câu hỏi lặp lại (và trước đó là 42 phút, 60 ca/ngày của bài toán cũ) — đều do AI ước tính. Chúng nghe rất hợp lý và được trình bày tự tin, nhưng không có bất kỳ nguồn dữ liệu nào. Nếu tôi không để ý, người đọc báo cáo sẽ tưởng đó là số liệu vận hành thật của VinFast.
 
-**Kiến thức về doanh nghiệp thực tế còn hạn chế.** AI không biết chắc dịch vụ đổi pin và quy trình chăm sóc khách hàng của VinFast vận hành cụ thể ra sao. Quy trình 6 bước trong báo cáo là một mô phỏng hợp lý, chưa được kiểm chứng với người làm trong ngành.
+**Giả định sai về thực tế vận hành — lỗi nghiêm trọng nhất của buổi lab.** Toàn bộ bản đầu tiên của file 01, báo cáo Deep-Dive và sơ đồ quy trình đều được AI xây trên giả định rằng **trạm đổi pin có nhân viên**: nhân viên kiểm tra pin khách trả, chụp ảnh, tạo ticket. AI viết rất trôi chảy và không hề nói đây là giả định. Chỉ khi tôi hỏi lại *"đổi pin xe máy không có nhân viên tại trạm phải không?"*, AI mới tra cứu và xác nhận: mô hình của VinFast/V-Green dùng **tủ đổi pin tự động đặt tại cây xăng, cửa hàng đối tác, không có nhân viên trực**. Hệ quả:
+* Quick Card "nhân viên đánh giá pin khi trả" mất cơ sở (tủ đã tự đọc BMS).
+* Quy trình hiện tại của bài tranh chấp pin mô tả những bước không tồn tại — đúng phần G1 (Workflow Mapping) được chấm điểm.
+* Con số "60 ca tranh chấp/ngày" khó tin, khi một thống kê cũ của VinFast cho thấy giai đoạn đầu cả nước chỉ có vài chục lượt đổi pin mỗi tháng.
+
+Tôi quyết định **đổi bài toán Deep-Dive** sang *hỗ trợ từ xa sự cố tại tủ không người trực* — một nỗi đau sinh ra chính từ đặc điểm "không có nhân viên", và viết lại file 01, 02 cùng sơ đồ quy trình. Đây là bài học rõ nhất của tôi: một bản phân tích có cấu trúc đẹp vẫn có thể sai từ gốc nếu tiền đề về thực tế vận hành sai.
 
 **Tự suy diễn khi yêu cầu mơ hồ.** Khi tôi nói "làm phase 2 đi", Phase 2 (Quick Cards) thực ra đã có trong file 01. Thay vì hỏi lại, AI tự suy luận rằng tôi muốn file thứ hai và viết luôn báo cáo Deep-Dive. Kết quả vẫn dùng được, nhưng đó không phải điều tôi yêu cầu chính xác.
 
 **Tự phản biện chính mình.** Phần stress-test các Quick Card (đóng vai CFO khắt khe) do chính AI viết ra rồi tự trả lời, nên thiếu góc nhìn độc lập và có xu hướng "dễ dãi" với ý tưởng của chính nó.
 
-**Lỗi logic trong sơ đồ.** Bản sơ đồ đầu tiên bị chồng chữ ở các nhãn handoff. Bản thứ hai mắc lỗi logic: gắn nhãn HANDOFF giữa Bước 5 và Bước 6 trong khi cả hai bước đều do CSKH thực hiện, không có chuyển giao nào. Lỗi này rất dễ bỏ qua khi nhìn lướt.
+**Lỗi logic trong sơ đồ.** Ở sơ đồ của bài toán cũ, bản đầu tiên bị chồng chữ ở các nhãn handoff. Bản thứ hai mắc lỗi logic: gắn nhãn HANDOFF giữa hai bước đều do cùng một người (CSKH) thực hiện, không có chuyển giao nào. Lỗi này rất dễ bỏ qua khi nhìn lướt.
 
 ---
 
 ## 3. Tôi đã sửa prompt và ranh giới như thế nào
 
-**Bắt buộc gắn nhãn giả định.** Tôi yêu cầu mọi con số phải được ghi rõ là "ước tính giả định" ngay ở đầu mỗi file. Quan trọng hơn, tôi biến chính điểm yếu này thành bằng chứng cho quyết định cuối cùng: báo cáo chọn **NOT YET** thay vì GO, vì chưa có baseline thật và chưa có bộ ticket cũ để đo độ chính xác của AI. Một quyết định GO dựa trên số liệu do AI tự tạo ra sẽ không trung thực.
+**Bắt buộc gắn nhãn giả định.** Tôi yêu cầu mọi con số phải được ghi rõ là "ước tính giả định" ngay ở đầu mỗi file. Quan trọng hơn, tôi biến chính điểm yếu này thành bằng chứng cho quyết định cuối cùng: báo cáo chọn **NOT YET** thay vì GO, vì chưa có baseline thật về số cuộc gọi sự cố và chưa có lịch sử cuộc gọi để đo độ chính xác của AI — kèm một ngưỡng rõ ràng: nếu số cuộc gọi thật thấp thì bảng tra mã lỗi rule-based là đủ, không cần LLM. Một quyết định GO dựa trên số liệu do AI tự tạo ra sẽ không trung thực.
 
 **Viết prompt cụ thể hơn và đưa ví dụ mẫu.** Sau lần AI hiểu sai "phase 2", tôi rút kinh nghiệm phải nêu rõ tên file hoặc phase cần làm. Khi cần vẽ sơ đồ, thay vì mô tả bằng lời, tôi gửi kèm ảnh mẫu và yêu cầu "làm theo mẫu"; kết quả bám sát định dạng hơn hẳn. Khi AI viết bản tự luận này dưới dạng bảng, tôi nhắc lại "theo yêu cầu" để nó viết đúng dạng bài tự luận mà README yêu cầu.
 
-**Kiểm tra chéo kết quả.** Tôi đối chiếu để đảm bảo số liệu trong sơ đồ, trong bảng workflow của báo cáo và trong Quick Card khớp nhau (42 phút, bottleneck Bước 4–6 chiếm 27 phút), và yêu cầu sửa lỗi handoff sai vị trí.
+**Đặt câu hỏi về tiền đề và đòi nguồn.** Sau lỗi "trạm có nhân viên", tôi không chấp nhận mô tả quy trình của AI như sự thật nữa mà yêu cầu AI **tra cứu nguồn** và ghi link tham khảo vào báo cáo. Các thông tin về mô hình tủ đổi pin trong file 01 và 02 giờ đều có nguồn báo chí đi kèm; phần nào vẫn là giả định thì ghi rõ là giả định.
 
-**Thiết lập ranh giới cho chính sản phẩm AI.** Trải nghiệm "AI viết rất thuyết phục nhưng có thể sai" ảnh hưởng trực tiếp tới thiết kế giải pháp: AI chỉ được soạn nháp có thẻ `[DRAFT_ONLY]`, không được tự gửi tin cho khách, không được tự kết luận hay áp phí, và mọi quyết định liên quan tới tiền phải có người duyệt. Ở phần prompt prototype, tôi viết các adversarial test cố tình dụ model bỏ thẻ `[DRAFT_ONLY]` hoặc gợi ý trạm sạc xa khi pin dưới 5% để kiểm tra ranh giới có thực sự vững hay không.
+**Kiểm tra chéo kết quả.** Tôi đối chiếu để đảm bảo số liệu trong sơ đồ, trong bảng workflow của báo cáo và trong Quick Card khớp nhau (~20 phút/cuộc gọi, bottleneck Bước 3–5 chiếm 17 phút), và yêu cầu sửa lỗi handoff sai vị trí ở sơ đồ cũ.
+
+**Thiết lập ranh giới cho chính sản phẩm AI.** Trải nghiệm "AI viết rất thuyết phục nhưng có thể sai" ảnh hưởng trực tiếp tới thiết kế giải pháp: AI chỉ được soạn nháp có thẻ `[DRAFT_ONLY]`, chỉ được chọn bước hướng dẫn từ danh mục thao tác đã được kỹ thuật duyệt, không được tự gửi lệnh điều khiển tủ hay tự gửi tin cho khách, và mọi ca có dấu hiệu nguy hiểm (pin phồng, nóng, khói) bị cổng rule-based chặn trước khi tới AI. Ở phần prompt prototype, tôi viết các adversarial test cố tình dụ model bỏ thẻ `[DRAFT_ONLY]` hoặc gợi ý trạm sạc xa khi pin dưới 5% để kiểm tra ranh giới có thực sự vững hay không.
 
 **Quá trình chạy prompt prototype — chưa thuận lợi, và tôi ghi lại đúng như vậy:**
 
@@ -68,4 +76,4 @@ Trong Lab 02, tôi dùng Claude như một trợ lý đồng hành (thought-part
 
 ## Kết luận
 
-AI là một thought-partner rất tốt cho việc hiểu yêu cầu, mở rộng ý tưởng, phản biện kiến trúc và trình bày. Nhưng AI **không phải là nguồn dữ liệu** và **không thay thế được hiểu biết thực tế** về quy trình doanh nghiệp. Bài học lớn nhất của tôi là: mọi đầu ra của AI đều cần được kiểm chứng, gắn nhãn đúng mức độ tin cậy và đặt dưới sự giám sát của con người — đó cũng chính là nguyên tắc tôi áp dụng khi thiết kế giải pháp AI cho bài toán tranh chấp pin của VinFast.
+AI là một thought-partner rất tốt cho việc hiểu yêu cầu, mở rộng ý tưởng, phản biện kiến trúc và trình bày. Nhưng AI **không phải là nguồn dữ liệu** và **không thay thế được hiểu biết thực tế** về quy trình doanh nghiệp. Bài học lớn nhất của tôi là: mọi đầu ra của AI đều cần được kiểm chứng, gắn nhãn đúng mức độ tin cậy và đặt dưới sự giám sát của con người — đó cũng chính là nguyên tắc tôi áp dụng khi thiết kế giải pháp AI hỗ trợ sự cố tại tủ đổi pin của VinFast. Và bài học tôi sẽ mang theo lâu nhất đến từ một câu hỏi rất đơn giản của chính tôi — "trạm có nhân viên không?" — đủ để lật lại cả một bài toán mà AI đã trình bày rất thuyết phục.
